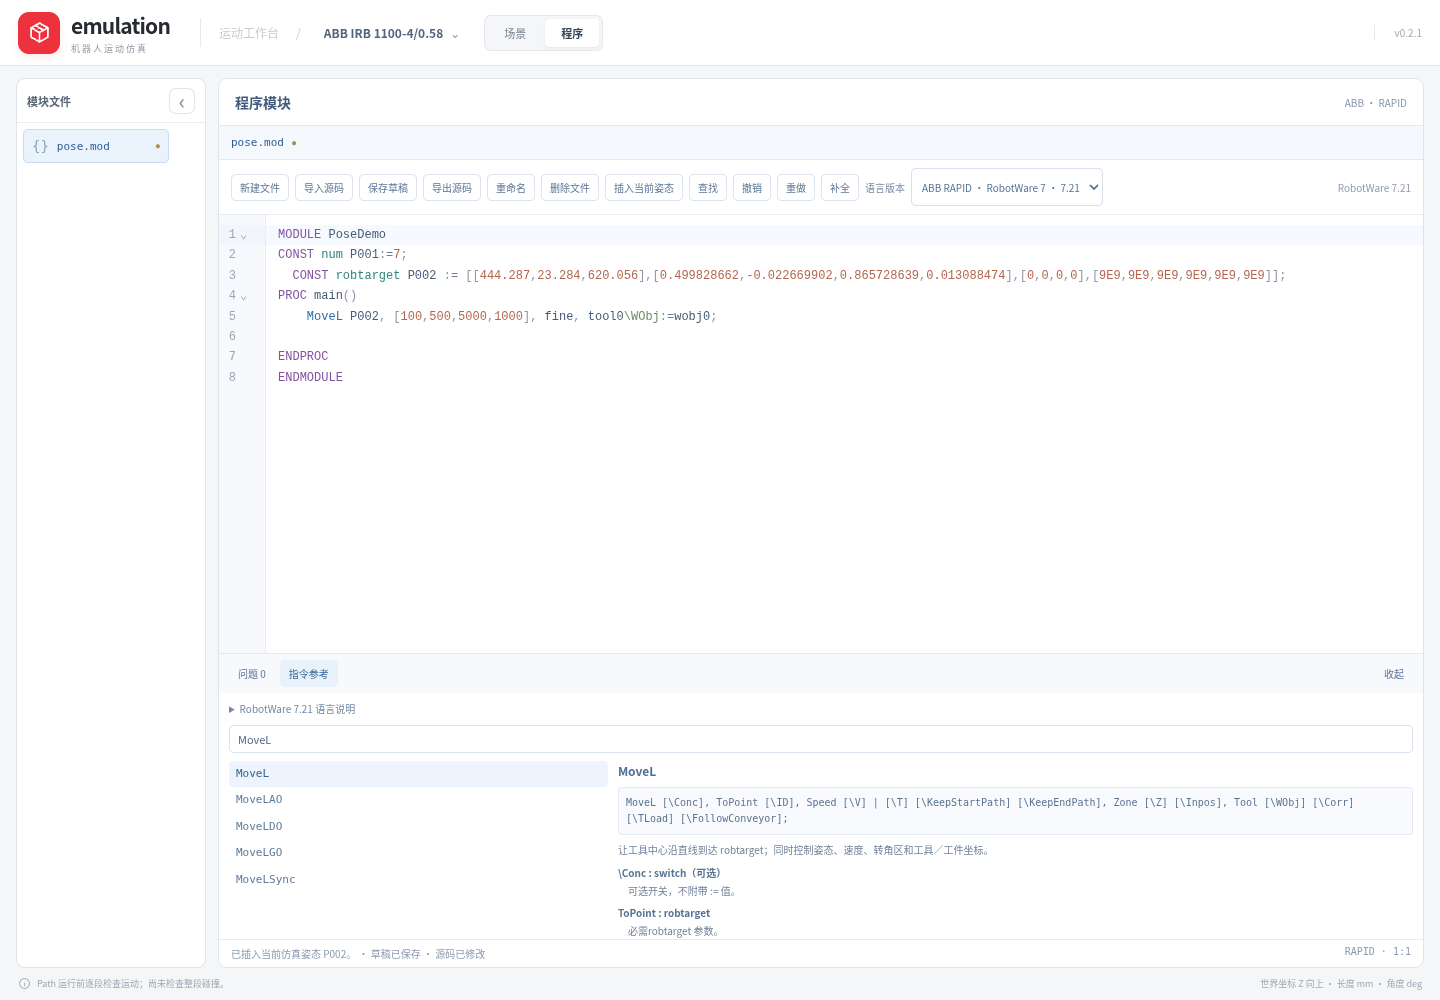
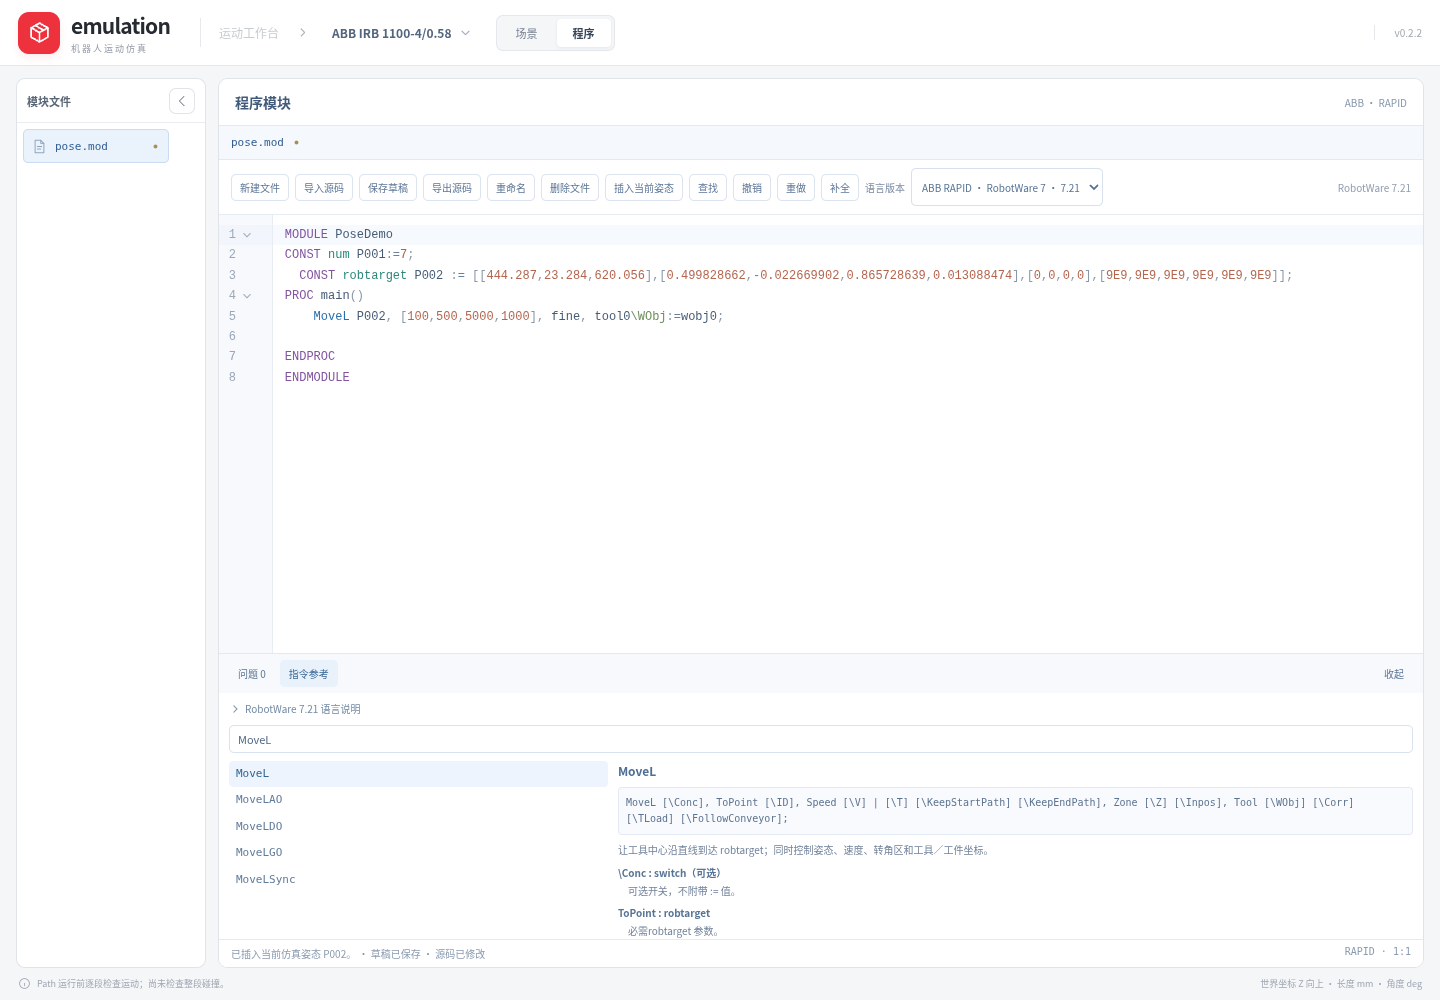
test: verify physical editor shortcuts and record Path UI validation

diff --git a/tests/ui/icons.spec.ts b/tests/ui/icons.spec.ts
@@ -173,7 +173,9 @@ test('module and CodeMirror SVG icons retain folding, completion, search and dia
     const style = getComputedStyle(element);
     return [style.content, style.backgroundImage, style.maskImage].join(' ');
   })).toContain('image/svg+xml');
-  await codeEditor(page).press('ControlOrMeta+Shift+m');
+  // Physical KeyM emits Shift's uppercase key; a literal lowercase "m"
+  // incorrectly reaches CodeMirror's separate Ctrl-m tab-focus command.
+  await codeEditor(page).press('ControlOrMeta+Shift+KeyM');
   const lintPanel = page.locator('.cm-panel-lint');
   await expect(lintPanel).toBeVisible();
   const lintClose = lintPanel.locator('button[name="close"]');

diff --git a/history/2026-11-10-003.md b/history/2026-11-10-003.md
@@ -1,6 +1,6 @@
 # 2026-11-10 · Path运行入口与SVG图标
 
-- 状态：in_progress
+- 状态：completed
 - 分支：feat/path-run-svg-icons
 - 起点：8f56be3（v0.2.2发布后文档提交）
 - 关联记录：[Path工作流](2026-11-10-001.md)、[v0.2.2发布](2026-11-10-002.md)
@@ -38,9 +38,20 @@
 - 实现提交`69e011c`已推送，草稿[PR #6](https://github.com/ecojust/emulation/pull/6)触发检查工作流`42749150604`与桌面工作流`42749150795`。
 - 初轮SVG编辑器测试失败：CodeMirror在真实折叠行之前插入一个`height:0px; visibility:hidden`的测宽占位，`.first()`错误选到占位。trace位于临时`test-results/icons-module-and-CodeMirro-b5ea8-rch-and-diagnostic-behavior/trace.zip`；真实可见图标未发现缺失。
 - 测试改为选择`:visible`折叠行，补充折叠前方向断言，保留实际点击、展开还原、SVG几何及源码一致性检查；未放宽可见性断言或使用force点击。待复测。
-- 实屏审阅发现模型目录footer仍宣传已移除的单段导出入口，改为当前Path仿真／模板／ABB端点功能说明。两项补正在隔离worktree准备，避免修改正在执行GPU回归的应用文件。
+- 实屏审阅发现模型目录footer仍宣传已移除的单段导出入口，改为当前Path仿真／模板／ABB端点功能说明。两项修正在隔离worktree准备，避免修改正在执行GPU回归的应用文件。
 - `69e011c`的ARM原生job已成功，含DMG安装后smoke；Windows构建仍在进行。浏览器回归继续，未把执行中项目计为通过。
+
+### A4 · 复测与交付
+
+- 本地首轮开发构建34项UI结束：33通过／1失败（16.9m），失败为A3已记录的隐藏测量行选择器；其余包括Path实际Cartesian运动、循环闭合、停止15帧稳定、无效Path禁用、ABB／GP7、端点预览不改点、干涉、Jog、程序编辑及固定布局均通过。
+- 隔离补丁`cf2b12a`已推送并快进合入本地工作分支；最终应用构建（含类型检查）通过。功能源码以该提交为准，后续交付提交仅修改测试、截图和记录。
+- 生产构建的图标＋源码编辑8项首次复测：7通过／1失败（2.1m）。真实折叠、补全、搜索均成功，最后lint面板快捷键失败：Playwright的`Shift+m`小写字面键使CodeMirror先匹配Ctrl+m，未等同于真实Shift+M。改用物理`ControlOrMeta+Shift+KeyM`，不改应用行为，不放宽面板显示／关闭断言。
+- 生产构建SVG两项复测全部通过（24.4s），覆盖实际SVG几何、Path／DH折叠、场景菜单、目录、CodeMirror折叠还原、搜索、补全、诊断与关闭，以及1000×720固定窗口。之前6项生产源码编辑全部通过；临时原失败trace保留于`/tmp/emulation-path-icons-production/`，复测日志`/tmp/emulation-path-icons-recheck.log`可能随环境清理失效。
+- 最终可复查原生验证：应用提交`cf2b12a`的[桌面工作流42750071161](https://github.com/ecojust/emulation/actions/runs/42750071161)，[ARM job 129611470387](https://github.com/ecojust/emulation/actions/runs/42750071161/job/129611470387)与[Windows job 129611470435](https://github.com/ecojust/emulation/actions/runs/42750071161/job/129611470435)均成功，包括核心／策略／前端、真实安装后Path菜单运行smoke、安装包与校验上传。Intel未在本轮宣称通过。
+- 已审阅更新的工作台、模块编辑、离线编程三张截图，README展示当前SVG和无单段检查入口的界面。旧v0.2.2下载链接保持不变，本轮未发布安装包到Release。
+- `npm test`共1245项、类型／构建／diff检查通过；两次UI失败均保留原因与复测证据。最终测试修正及截图推送会触发新CI；不把旧提交的CI状态冒充新head状态。
 
 ## 当前交接
 
-- 本地34项浏览器回归进行中，完成后复测SVG定位修复及生产构建。PR仍为草稿；尚未合并或发布本轮修改。
+- 三项需求已完成，英文提交已推送到`feat/path-run-svg-icons`，交付[PR #6](https://github.com/ecojust/emulation/pull/6)。应用源码已完成ARM／Windows实装验证；最后的测试／文档提交不改应用源码，其自动CI单独跟进。
+- 本轮尚未合并master、修改版本或发布Release；用户若后续要求合并／发布，先核对PR最新head检查，延续既有Intel图形限制。

diff --git a/history/INDEX.md b/history/INDEX.md
@@ -4,7 +4,7 @@
 
 | 记录 | 状态 | 用户目标 | 当前结果与下一步 |
 | --- | --- | --- | --- |
-| [2026-11-10-003](2026-11-10-003.md) | in_progress | 移除点单段检查、统一SVG图标、Path右键运行 | 实现完成；1245项TS／类型／构建通过，34项浏览器及原生检查待完成。 |
+| [2026-11-10-003](2026-11-10-003.md) | completed | 移除点单段检查、统一SVG图标、Path右键运行 | 已交付PR #6；1245项TS、构建及相关UI通过，ARM／Windows实装通过；末次测试／文档提交CI单独跟进，未合并发布。 |
 | [2026-11-10-002](2026-11-10-002.md) | completed | 发布新版本 | v0.2.2已公开为latest（46a5791）；97项Rust、1245项TS、32＋6项UI及ARM／Windows实装通过，提供安装包／manifest／SHA256SUMS。 |
 | [2026-11-10-001](2026-11-10-001.md) | completed | 左侧创建Path／右键添加点、Path转模块、程序左侧模块列表 | PR #5已合并master并随v0.2.2发布；正式完整验证通过，发布证据见002。 |
 | [2026-11-09-012](2026-11-09-012.md) | completed | 候选解改临时预览、保留滚动并发布最新版 | v0.2.1已正式发布（b05a23e）；原始点／程序不变、滚动保持；1224项TS、97项Rust、32＋6项UI及ARM／Windows实装通过。 |
